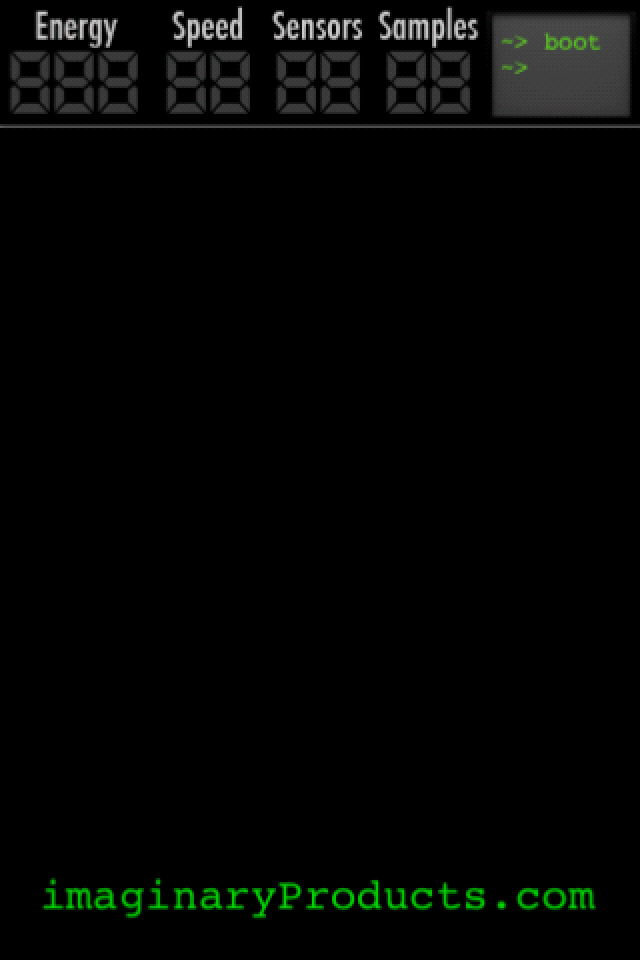
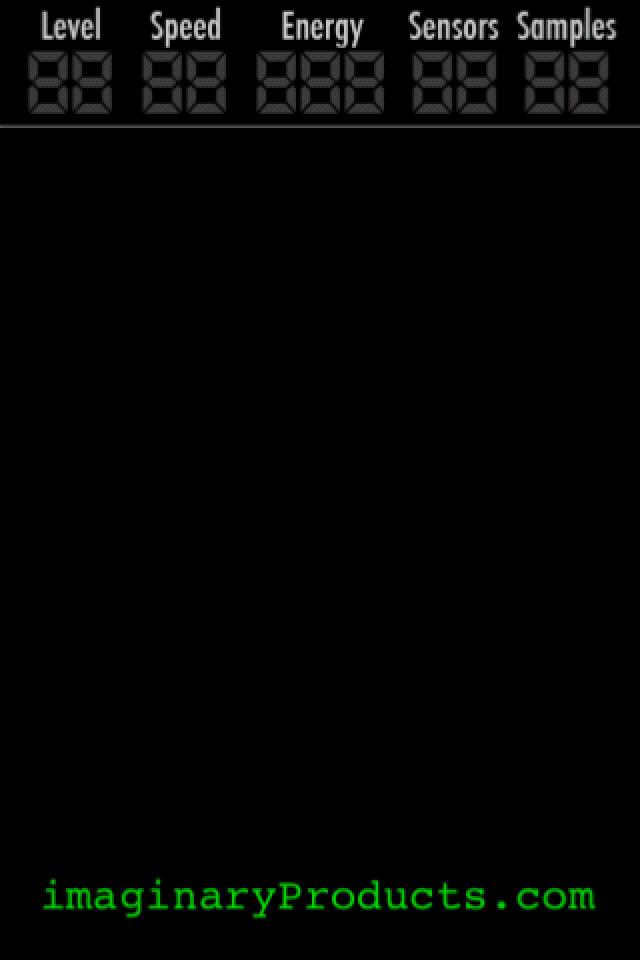
fixed quad selection bug. fixed bug level display. fixed bug in program load on halt.

Changed region(s): [[0.0, 0.0, 1.0, 0.125]]

diff --git a/Classes/Views/StatusDisplay.m b/Classes/Views/StatusDisplay.m
@@ -11,15 +11,12 @@
 
 //-----------------------------------------------------------------------------------------------------------------------------------
 #define kDISPLAY_DIGIT_DELTA    22.0f
-#define kLEVEL_XPOS             17.0f
-#define kSPEED_XPOS             74.0f
-#define kENERGY_XPOS            127.0f
-#define kSENSOR_XPOS            203.0f
-#define kSAMPLE_XPOS            255.0f
+#define kLEVEL_XPOS             12.0f
+#define kSPEED_XPOS             69.0f
+#define kENERGY_XPOS            126.0f
+#define kSENSOR_XPOS            204.0f
+#define kSAMPLE_XPOS            260.0f
 #define kDIGIT_YPOS             6.0f
-#define kTERMINAL_XPOS          250.0f
-#define kTERMINAL_YPOS          37.0f
-#define kTERMINAL_YOFFSET       13.0f
 
 /////////////////////////////////////////////////////////////////////////////////////////////////////////////////////////////////////
 @interface StatusDisplay (PrivateAPI)
@@ -81,19 +78,19 @@
 
 //-----------------------------------------------------------------------------------------------------------------------------------
 - (void)clear {
+    [self removeDigits:self.sampleDigits];
+    [self removeDigits:self.sensorDigits];
     [self removeDigits:self.energyDigits];
     [self removeDigits:self.speedDigits];
-    [self removeDigits:self.sensorDigits];
-    [self removeDigits:self.sampleDigits];
     [self removeDigits:self.levelDigits];
 }
 
 //-----------------------------------------------------------------------------------------------------------------------------------
 - (void)test {
+    [self setTest:SampleDisplayType];
+    [self setTest:SensorDisplayType];
     [self setTest:EnergyDisplayType];
     [self setTest:SpeedDisplayType];
-    [self setTest:SensorDisplayType];
-    [self setTest:SampleDisplayType];
     [self setTest:LevelDisplayType];
 }
 
@@ -127,8 +124,8 @@
             [self.sampleDigits addObject:[self insertImage:self.testDigitImage atPostion:(kSAMPLE_XPOS+kDISPLAY_DIGIT_DELTA) withKey:@"test"]];
             break;
         case LevelDisplayType:
-            [self.sampleDigits addObject:[self insertImage:self.testDigitImage atPostion:kLEVEL_XPOS withKey:@"test"]];
-            [self.sampleDigits addObject:[self insertImage:self.testDigitImage atPostion:(kLEVEL_XPOS+kDISPLAY_DIGIT_DELTA) withKey:@"test"]];
+            [self.levelDigits addObject:[self insertImage:self.testDigitImage atPostion:kLEVEL_XPOS withKey:@"test"]];
+            [self.levelDigits addObject:[self insertImage:self.testDigitImage atPostion:(kLEVEL_XPOS+kDISPLAY_DIGIT_DELTA) withKey:@"test"]];
             break;
     }
 }
@@ -161,8 +158,8 @@
             [self.sampleDigits addObject:[self insertImage:[self.digitImages objectAtIndex:onesDigit] atPostion:(kSAMPLE_XPOS+kDISPLAY_DIGIT_DELTA) withKey:onesDigitKey]];
             break;
         case LevelDisplayType:
-            [self.sampleDigits addObject:[self insertImage:[self.digitImages objectAtIndex:tensDigit] atPostion:kLEVEL_XPOS withKey:tensDigitKey]];
-            [self.sampleDigits addObject:[self insertImage:[self.digitImages objectAtIndex:onesDigit] atPostion:(kLEVEL_XPOS+kDISPLAY_DIGIT_DELTA) withKey:onesDigitKey]];
+            [self.levelDigits addObject:[self insertImage:[self.digitImages objectAtIndex:tensDigit] atPostion:kLEVEL_XPOS withKey:tensDigitKey]];
+            [self.levelDigits addObject:[self insertImage:[self.digitImages objectAtIndex:onesDigit] atPostion:(kLEVEL_XPOS+kDISPLAY_DIGIT_DELTA) withKey:onesDigitKey]];
             break;
     }
 }

diff --git a/Classes/Views/UploadScene.m b/Classes/Views/UploadScene.m
@@ -83,7 +83,7 @@
     if (self.counter == kUPLOAD_TICK_1) {
         [self.percentUploadLabel setString:@"upload 10%  (1.0Kb/s)"];
         [self.uploadProgressLabel setString:@"===>"];
-        [self.statusDisplay setTest:EnergyDisplayType];
+        [self.statusDisplay setTest:LevelDisplayType];
     } else if (self.counter == kUPLOAD_TICK_2) {
         [self.percentUploadLabel setString:@"upload 20%  (0.8Kb/s)"];
         [self.uploadProgressLabel setString:@"====>"];
@@ -91,31 +91,31 @@
     } else if (self.counter == kUPLOAD_TICK_3) {
         [self.percentUploadLabel setString:@"upload 30%  (1.2Kb/s)"];
         [self.uploadProgressLabel setString:@"======>"];
-        [self.statusDisplay setTest:SensorDisplayType];
+        [self.statusDisplay setTest:EnergyDisplayType];
     } else if (self.counter == kUPLOAD_TICK_4) {
         [self.percentUploadLabel setString:@"upload 40%  (1.5Kb/s)"];
         [self.uploadProgressLabel setString:@"=========>"];
-        [self.statusDisplay setTest:SampleDisplayType];
+        [self.statusDisplay setTest:SensorDisplayType];
     } else if (self.counter == kUPLOAD_TICK_5) {
         [self.percentUploadLabel setString:@"upload 60%  (1.2Kb/s)"];
         [self.uploadProgressLabel setString:@"===========>"];
-        [self.statusDisplay clear];
+        [self.statusDisplay setTest:SampleDisplayType];
     } else if (self.counter == kUPLOAD_TICK_6) {
         [self.percentUploadLabel setString:@"upload 70%  (1.8Kb/s)"];
         [self.uploadProgressLabel setString:@"=============>"];
-        [self.statusDisplay setTest:EnergyDisplayType];
+        [self.statusDisplay clear];
     } else if (self.counter == kUPLOAD_TICK_7) {
         [self.percentUploadLabel setString:@"upload 80%  (2.0Kb/s)"];
         [self.uploadProgressLabel setString:@"================>"];
-        [self.statusDisplay setTest:SpeedDisplayType];
+        [self.statusDisplay setTest:LevelDisplayType];
     } else if (self.counter == kUPLOAD_TICK_8) {
         [self.percentUploadLabel setString:@"upload 90%  (2.1Kb/s)"];
         [self.uploadProgressLabel setString:@"====================>"];
-        [self.statusDisplay setTest:SensorDisplayType];
+        [self.statusDisplay setTest:SpeedDisplayType];
     } else if (self.counter == kUPLOAD_TICK_9) {
         [self.percentUploadLabel setString:@"upload 100% (0.5kb/s)"];
         [self.uploadProgressLabel setString:@"======================>"];
-        [self.statusDisplay setTest:SampleDisplayType];
+        [self.statusDisplay setTest:EnergyDisplayType];
     } else if (self.counter == kUPLOAD_TICK_10) {
         [[ProgramNgin instance] runProgram];
         [[CCDirector sharedDirector] replaceScene: [MapScene scene]];

diff --git a/Classes/Views/BootScene.m b/Classes/Views/BootScene.m
@@ -155,28 +155,28 @@
         [self.bootingLabel setString:@"Booting....."];
     } else if (self.counter == kBOOT_TICK_6) {
         [self.bootingLabel removeFromParentAndCleanup:YES];
-        [self.statusDisplay setTest:EnergyDisplayType];
+        [self.statusDisplay setTest:LevelDisplayType];
         [self insertPOST:@"POST    [start]"];
     } else if (self.counter == kBOOT_TICK_7) {
         [self.statusDisplay setTest:SpeedDisplayType];
     } else if (self.counter == kBOOT_TICK_8) {
-        [self.statusDisplay setTest:SensorDisplayType];
+        [self.statusDisplay setTest:EnergyDisplayType];
     } else if (self.counter == kBOOT_TICK_9) {
-        [self.statusDisplay setTest:SampleDisplayType];
+        [self.statusDisplay setTest:SensorDisplayType];
     } else if (self.counter == kBOOT_TICK_10) {
-        [self.statusDisplay clear];
+        [self.statusDisplay setTest:SampleDisplayType];
     } else if (self.counter == kBOOT_TICK_11) {
-        [self.statusDisplay test];
+        [self.statusDisplay clear];
         [self.post removeFromParentAndCleanup:YES];
         [self insertPOST:@"POST    [OK]"];
         [self insertConsole:@"console [start]"];
     } else if (self.counter == kBOOT_TICK_12) {
-        [self.statusDisplay clear];
+        [self.statusDisplay test];
         [self.console removeFromParentAndCleanup:YES];
         [self insertConsole:@"console [started]"];
         [self insertConnection:@"connecting"];
     } else if (self.counter == kBOOT_TICK_13) {
-        [self.statusDisplay test];
+        [self.statusDisplay clear];
         [self.connection removeFromParentAndCleanup:YES];
         [self insertConnection:@"connected"];
     }    

diff --git a/Classes/ProgramNgin/ProgramNgin.m b/Classes/ProgramNgin/ProgramNgin.m
@@ -452,6 +452,7 @@ static ProgramNgin* thisProgramNgin = nil;
 //-----------------------------------------------------------------------------------------------------------------------------------
 - (void)loadProgram:(NSMutableArray*)_program {
     self.program = [NSMutableArray arrayWithArray:_program];
+    [self compile];
 }
 
 //-----------------------------------------------------------------------------------------------------------------------------------
@@ -466,7 +467,6 @@ static ProgramNgin* thisProgramNgin = nil;
 
 //-----------------------------------------------------------------------------------------------------------------------------------
 - (void)runProgram {
-    [self compile];
     self.codeLine = 0;
     self.programRunning = YES;
     self.programHalted = NO;

diff --git a/Classes/Views/QuadsScene.m b/Classes/Views/QuadsScene.m
@@ -11,6 +11,7 @@
 #import "StatusDisplay.h"
 #import "TouchUtils.h"
 #import "LevelModel.h"
+#import "UserModel.h"
 #import "MissionsScene.h"
 
 //-----------------------------------------------------------------------------------------------------------------------------------
@@ -253,6 +254,7 @@
     CGPoint touchDelta = ccpSub(touchLocation, self.firstTouch);
     if (abs(touchDelta.y) < 20) {
         if ([self displayedQuadIsUnlocked]) {
+            [UserModel setQuadrangle:self.displayedQuad];
             [[CCDirector sharedDirector] replaceScene:[MissionsScene scene]];
         }
     } else if (touchDelta.y < 0) {

diff --git a/Classes/Models/UserModel.m b/Classes/Models/UserModel.m
@@ -96,6 +96,13 @@
 }
 
 //-----------------------------------------------------------------------------------------------------------------------------------
++ (void)setQuadrangle:(NSInteger)_quad {
+    UserModel* user = [self findFirst];
+    user.quadrangle = _quad;
+    [user update];
+}
+
+//-----------------------------------------------------------------------------------------------------------------------------------
 + (NSInteger)quadrangle {
     UserModel* user = [self findFirst];
     return user.quadrangle;

diff --git a/Classes/Views/EndOfLevelScene.m b/Classes/Views/EndOfLevelScene.m
@@ -309,6 +309,9 @@
 -(void) ccTouchesBegan:(NSSet*)touches withEvent:(UIEvent *)event {
     if (self.level.completed) {
         [self nextLevel];
+    } else {
+        [ProgramNgin instance].programHalted = NO;
+        [ProgramNgin instance].programRunning = NO;
     }
     [[CCDirector sharedDirector] replaceScene: [MapScene scene]];
 }    

diff --git a/Classes/Models/UserModel.h b/Classes/Models/UserModel.h
@@ -45,6 +45,7 @@
 + (void)setLevel:(NSInteger)_level;
 + (NSInteger)level;
 + (NSInteger)nextQuadrangle;
++ (void)setQuadrangle:(NSInteger)_quad;
 + (NSInteger)quadrangle;
 + (void)tutorialWasShown:(TutorialSectionID)_sectionID;
 + (BOOL)wasTutorialShown:(TutorialSectionID)_sectionID;
